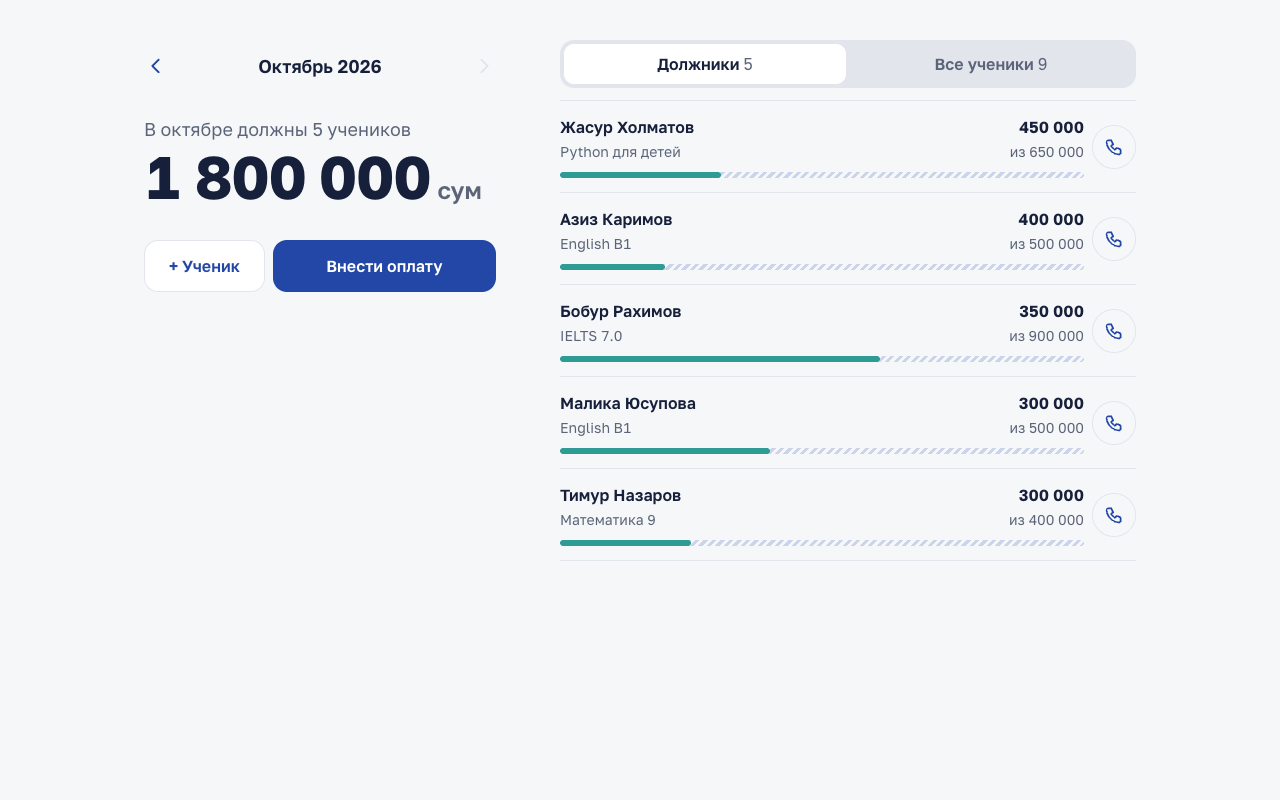
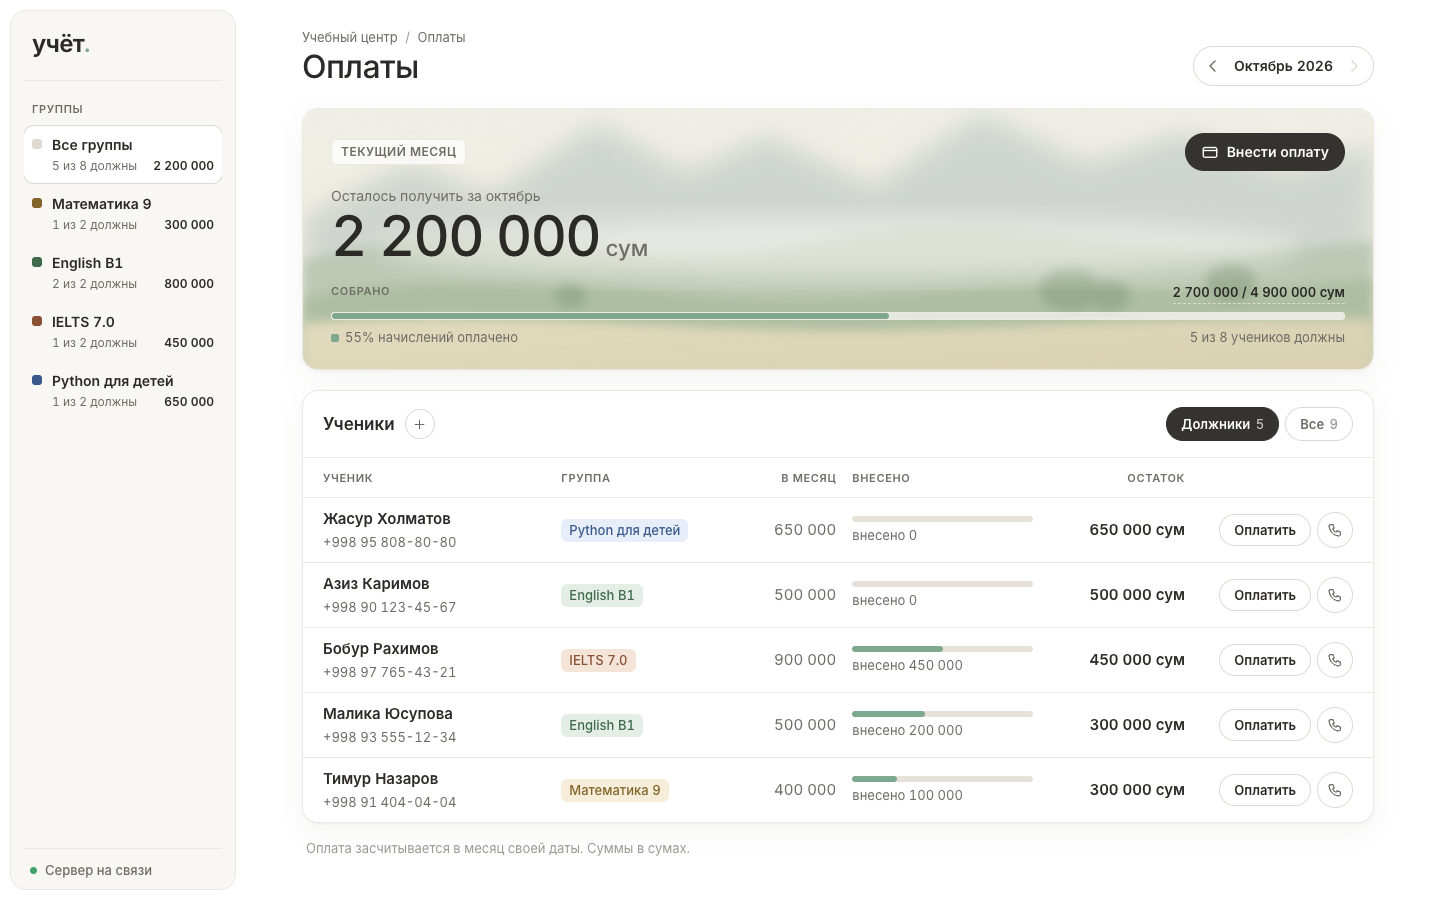
docs: update README screenshots and page description

diff --git a/README.md b/README.md
@@ -7,13 +7,17 @@
   <img src="docs/student.png" width="280" alt="Карточка ученика с историей оплат">
 </p>
 
+<img src="docs/desktop.png" alt="Широкий экран: группы слева, таблица учеников справа">
+
 На странице:
 
-- должники за месяц, общий долг и шкала «внесено / недостаёт» у каждого; месяцы листаются стрелками;
+- карточка месяца: сколько осталось получить и сколько собрано от начислений; месяцы листаются стрелками;
+- должники с суммой остатка и шкалой «внесено / недостаёт» у каждого;
 - переключатель «Должники / Все ученики»: у оплативших шкала заполнена, у записанных на будущее видно, с какого числа они учатся;
 - карточка ученика по тапу: долг за месяц, история оплат, кнопка звонка, изменение и удаление с подтверждением;
 - форма оплаты: ученик и сумма долга подставляются сами, дата по умолчанию сегодняшняя;
-- форма «+ Ученик» с датой «Учится с», от которой считаются долги.
+- форма «+ Ученик» с датой «Учится с», от которой считаются долги;
+- на широком экране слева список групп: у каждой видно, сколько учеников должны и на какую сумму, клик фильтрует таблицу.
 
 ## Запуск с нуля
 
@@ -111,7 +115,7 @@ curl 'localhost:3000/debtors?month=2026-10'
 - База — SQLite через встроенный `node:sqlite`. Нативных модулей, которые нужно компилировать при `npm ci`, нет.
 - Оплату с будущей датой API не примет: это почти всегда опечатка, которая молча закрыла бы долг не того месяца. Несуществующую дату вроде 30 февраля тоже.
 - При удалении ученика удаляются и его оплаты (`ON DELETE CASCADE`). Для настоящего центра лучше архив, об этом в списке улучшений.
-- Страница сделана без фреймворка и сборки. Данные выводятся через `textContent`, поэтому имя ученика не может внедрить на страницу HTML или скрипт. Шрифт Golos Text лежит в репозитории (лицензия OFL), сторонних запросов страница не делает.
+- Страница сделана без фреймворка и сборки. Данные выводятся через `textContent`, поэтому имя ученика не может внедрить на страницу HTML или скрипт. Шрифт Inter лежит в репозитории (лицензия OFL), фон карточки месяца — свой SVG, сторонних запросов страница не делает.
 
 ## Структура
 
